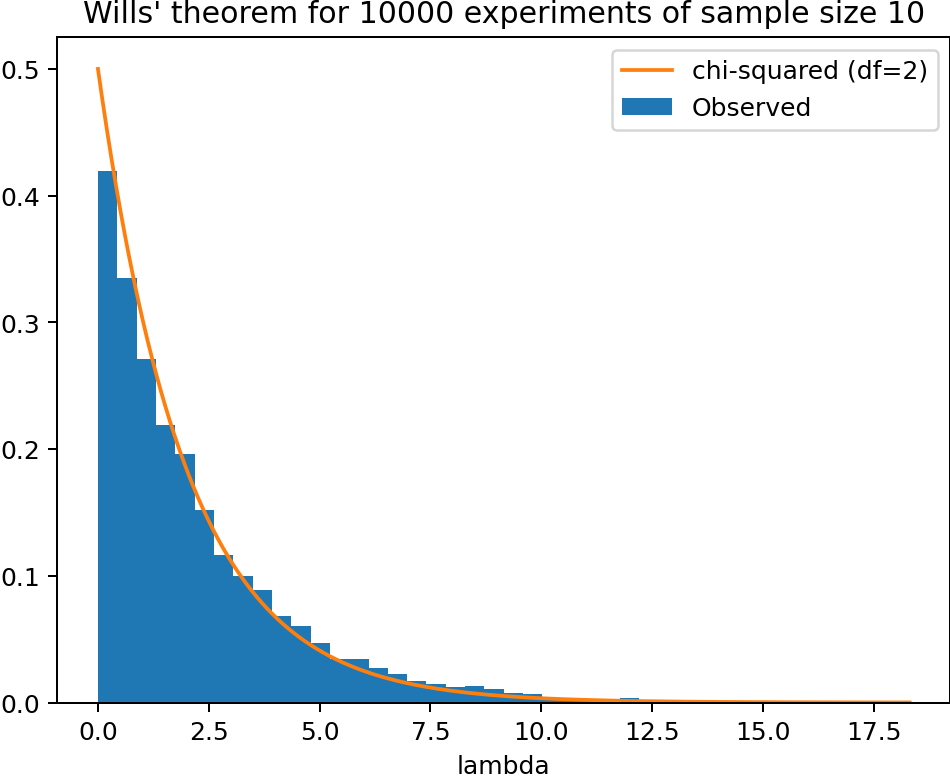
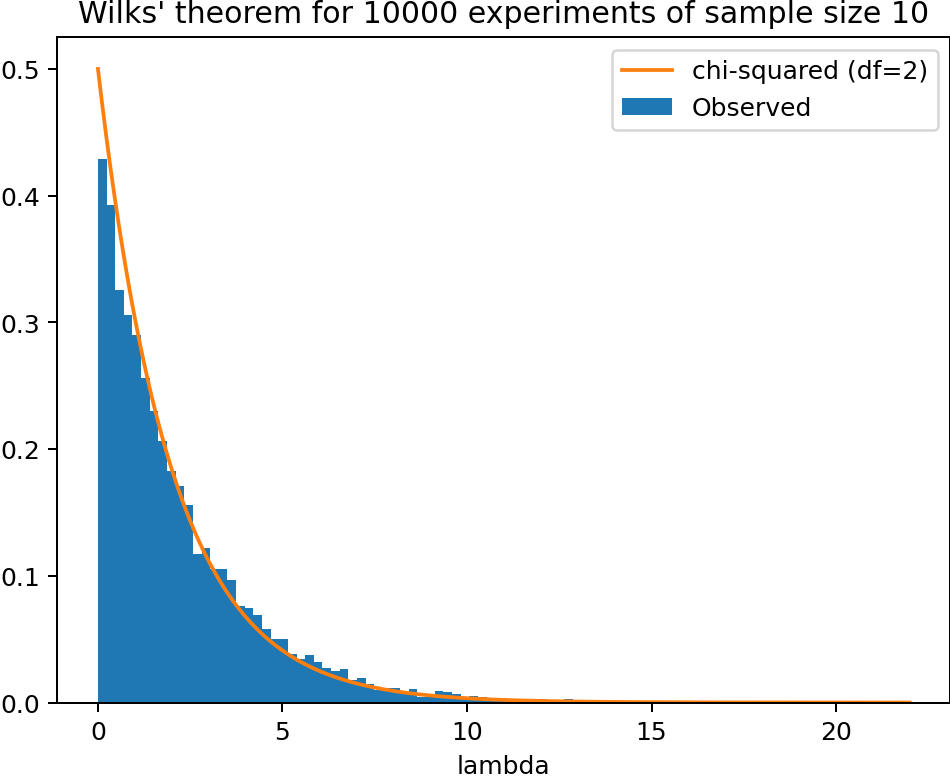
chi2

diff --git a/20200628-chi2/ex2.py b/20200628-chi2/ex2.py
@@ -1,4 +1,4 @@
-# RA, 2020-06-28
+# RA, 2020-10-22
 
 """
 Log-likelihood test statistic example.
@@ -7,28 +7,32 @@ Log-likelihood test statistic example.
 import numpy as np
 from pathlib import Path
 from plox import Plox
-from scipy.stats import norm, chi2, t as student_t
+from scipy.stats import norm, chi2, linregress
 
 
 def experiment(n):
-    # True proba density
-    p = norm(loc=2, scale=1)
-    # Generate a sample (observations)
-    samples = p.rvs(n)
-    # Proba inferred from observations
-    p1 = norm(loc=np.mean(samples), scale=np.std(samples))
+    # True model
+    a = -1
+    b = 0.0
+    x = np.arange(0, n)
+    s = 1
+    # Generate observations
+    y = a + b * x + norm(loc=0, scale=s).rvs(n)
+    # Linear regression
+    (b_hat, a_hat, _, _, _) = linregress(x, y)
     # The log-likelihood statistic
-    lam = 2 * (np.sum(np.log(p1.pdf(samples))) - np.sum(np.log(p.pdf(samples))))
+    lam = (s ** (-2)) * (np.sum(np.power(y - np.mean(y), 2)) - np.sum(np.power(y - (a_hat + b_hat * x), 2)))
     return lam
 
 
 n = 10
-r = 10000
-T = [experiment(n=n) for _ in range(r)]
+r = 1000
+T = np.array([experiment(n=n) for _ in range(r)])
 
 with Plox() as px:
+    T = T[(np.quantile(T, 0.01) <= T) & (T <= np.quantile(T, 0.9))]
     px.a.hist(T, bins='stone', density=True, label="Observed")
-    df = 2
+    df = 1
     px.a.plot(sorted(T), chi2(df=df).pdf(sorted(T)), '-', label=F"chi-squared (df={df})")
     px.a.set_title(F"Wilks' theorem for {r} experiments of sample size {n}")
     px.a.set_xlabel("lambda")
